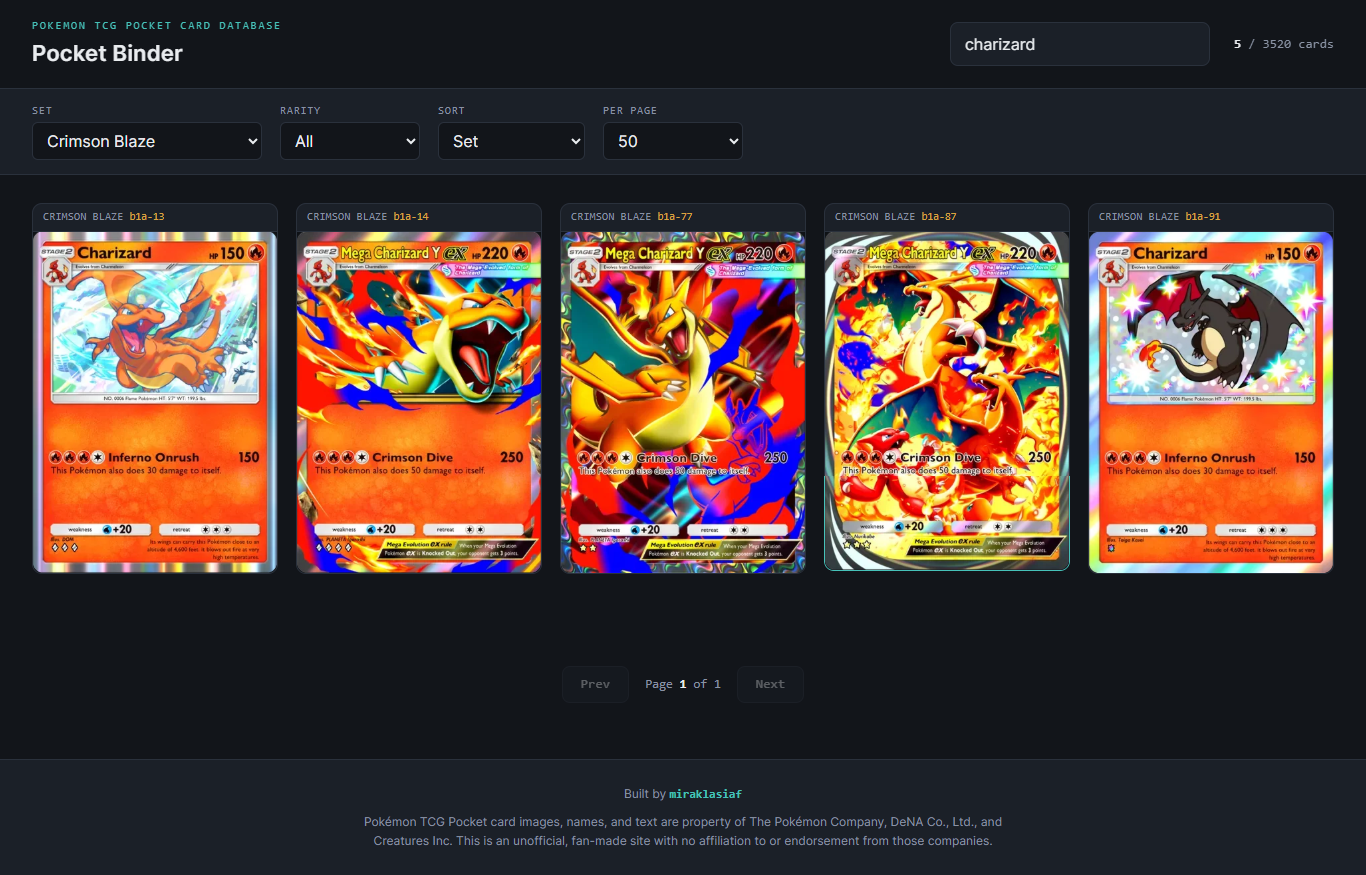
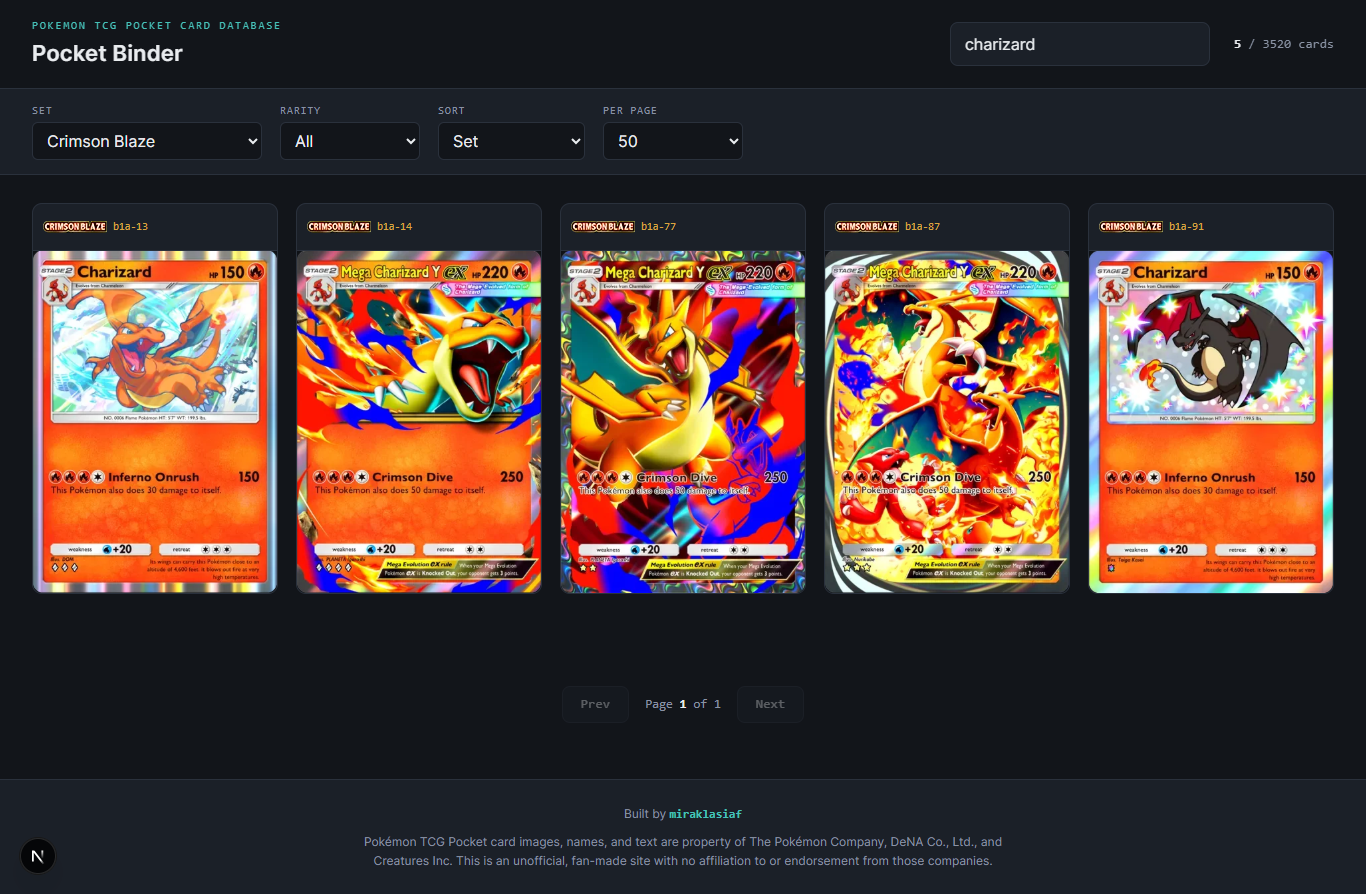
update

diff --git a/src/styles/globals.css b/src/styles/globals.css
@@ -265,7 +265,7 @@ a {
 }
 
 .card-tile-set-icon {
-  height: 16px;
+  height: 30px;
   width: auto;
 }
 
